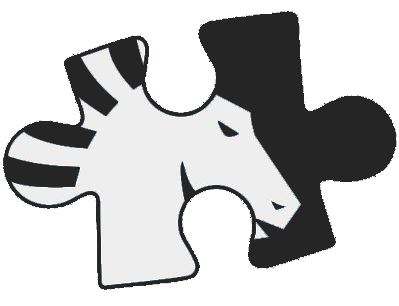
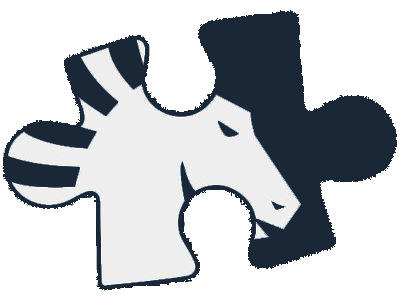
changed entire theme

diff --git a/src/sass/layout/_cardlist.scss b/src/sass/layout/_cardlist.scss
@@ -25,21 +25,21 @@
 
   //HEADING SPAN CHANGE ON CARD HOVER
   &:hover &__heading-span {
-    background-image: linear-gradient(to right, #CB52FF, #7700B8);
+    background-image: linear-gradient(to right, var(--color-brown-light), var(--color-brown-dark));
     //background-image: linear-gradient(to right, var(--color-orange-light), var(--color-orange-dark)); // #7700B8 #CB52FF
     padding-right: 6rem;
     font-weight: 900;
-    color: var(--color-gray-light-2);
+    color: black;
   }
 
   &:hover &__hitbox-img {
-    color : #CB52FF; //var(--color-orange-light);
+    color : var(--color-brown-dark); //var(--color-orange-light);
   }
   &:hover &__released-img {
-    color : #CB52FF; //var(--color-orange-light);
+    color : var(--color-brown-dark); //var(--color-orange-light);
   }
   &:hover &__attributes-img {
-    color : #CB52FF; //var(--color-orange-light);
+    color : var(--color-brown-dark); //var(--color-orange-light);
   }
 
   &__img-container {
@@ -80,7 +80,7 @@
       height: 2rem;
       width: 2rem;
       margin-right: 1rem;
-      color : greenyellow;
+      color : var(--color-primary-light);
     }
   }
 
@@ -93,11 +93,11 @@
     align-self: end;
     z-index: 0;
 
-    font-size: 2.1rem;
+    font-size: 2rem;
     font-weight: 700;
     text-transform: uppercase;
     text-align: right;
-    color: black;
+    color: var(--color-gray-light-2);
     position: absolute;
     //top: 12rem;
     right: .1rem;
@@ -105,8 +105,7 @@
     //outline: none;
 
     &-span {
-      //background-image: linear-gradient(to right, var(--color-blue-light), var(--color-blue-dark));
-      background-image: linear-gradient(to right, var(--color-green-light), greenyellow);
+      background-image: linear-gradient(to right, var(--color-primary-light), var(--color-primary));
       -webkit-box-decoration-break: clone;
       box-decoration-break: clone;
 

diff --git a/src/sass/layout/_header.scss b/src/sass/layout/_header.scss
@@ -11,7 +11,7 @@
 .header__navbar {
   display: grid;
 
-  background-color: #101d2c; // var(--color-theme-dark);
+  background-color: var(--color-primary); // var(--color-theme-dark);
   height: 45px;
   cursor: pointer;
   overflow: hidden;//+
@@ -105,6 +105,9 @@
 }
 
 
+
+/* items effect */
+
 .link::before {
   content: "";
   position: absolute;
@@ -112,7 +115,7 @@
   left: 0;
   height: 3px;
   width: 100%;
-  background-color: rgba(120, 181, 196, 0.2);
+  background-color: rgba(255, 207, 84, 0.2);
   transform: scaleY(1) scaleX(0);
   transition: transform .2s,
               width .4s cubic-bezier(1, 0, 0, 1) .1s,
@@ -133,7 +136,7 @@
 }
 
 
-/* effect */
+/* navbar effect */
 
 .header__navbar::after {
   content: "";
@@ -142,7 +145,7 @@
   right: 0;
   height: 3px;
   width: 100%;
-  background-color: rgba(196, 162, 120, .3);
+  background-color: rgba(255, 207, 84, 0.2);
   transform: scaleX(1);
   transition: transform .2s,
               width .4s cubic-bezier(1, 0, 0, 1) .1s,

diff --git a/src/components/livestreams/FilterTeam.js b/src/components/livestreams/FilterTeam.js
@@ -267,7 +267,7 @@ function FilterTeam ({ channels, selectedTeam, onSelectedTeamChange }) {
     /**** start Menu ****/
     function Menu(props) {
         return (
-            <Paper square className={props.selectProps.classes.paper} {...props.innerProps} Style='background-color: #252525'>
+            <Paper square className={props.selectProps.classes.paper} {...props.innerProps} Style='background-color: var(--color-primary)'>
                 {props.children}
             </Paper>
         );
@@ -314,7 +314,7 @@ function FilterTeam ({ channels, selectedTeam, onSelectedTeamChange }) {
                         InputLabelProps: {
                             htmlFor: 'react-select-multiple',
                             shrink: true,
-                            style: { color: 'greenyellow' },
+                            style: { color: 'var(--color-brown-light)' },
                         },
                     }}
                     placeholder="Select Team(s)"

diff --git a/src/components/livetweets/FilterTeam.js b/src/components/livetweets/FilterTeam.js
@@ -267,7 +267,7 @@ function FilterTeam ({ channels, selectedTeam, onSelectedTeamChange }) {
     /**** start Menu ****/
     function Menu(props) {
         return (
-            <Paper square className={props.selectProps.classes.paper} {...props.innerProps} Style='background-color: #252525'>
+            <Paper square className={props.selectProps.classes.paper} {...props.innerProps} Style='background-color: var(--color-primary)'>
                 {props.children}
             </Paper>
         );
@@ -314,7 +314,7 @@ function FilterTeam ({ channels, selectedTeam, onSelectedTeamChange }) {
                         InputLabelProps: {
                             htmlFor: 'react-select-multiple',
                             shrink: true,
-                            style: { color: 'greenyellow' },
+                            style: { color: 'var(--color-brown-light)' },
                         },
                     }}
                     placeholder="Select Team(s)"

diff --git a/src/components/FilterHitbox.js b/src/components/FilterHitbox.js
@@ -227,7 +227,7 @@ function FilterHitbox ({ selectedHitbox, onSelectedHitboxChange }) {
     /**** start Menu ****/
     function Menu(props) {
         return (
-            <Paper square className={props.selectProps.classes.paper} {...props.innerProps} Style='background-color: #252525'>
+            <Paper square className={props.selectProps.classes.paper} {...props.innerProps} Style='background-color: var(--color-primary)'>
                 {props.children}
             </Paper>
         );
@@ -274,7 +274,7 @@ function FilterHitbox ({ selectedHitbox, onSelectedHitboxChange }) {
                         InputLabelProps: {
                             htmlFor: 'react-select-multiple',
                             shrink: true,
-                            style: { color: 'greenyellow' },
+                            style: { color: 'var(--color-brown-light)' },
                         },
                     }}
                     placeholder="Select Hitbox(s)"

diff --git a/src/components/FilterAttribute.js b/src/components/FilterAttribute.js
@@ -221,7 +221,7 @@ function FilterAttribute ({ selectedAttribute, onSelectedAttributeChange }) {
     /**** start Menu ****/
     function Menu(props) {
         return (
-            <Paper square className={props.selectProps.classes.paper} {...props.innerProps} Style='background-color: #252525'>
+            <Paper square className={props.selectProps.classes.paper} {...props.innerProps} Style='background-color: var(--color-primary)'>
                 {props.children}
             </Paper>
         );
@@ -268,7 +268,7 @@ function FilterAttribute ({ selectedAttribute, onSelectedAttributeChange }) {
                     InputLabelProps: {
                         htmlFor: 'react-select-multiple',
                         shrink: true,
-                        style: { color: 'greenyellow' },
+                        style: { color: 'var(--color-brown-light)' },
                     },
                 }}
                 placeholder="Select Attribute(s)"

diff --git a/src/components/livestreams/SearchBox.js b/src/components/livestreams/SearchBox.js
@@ -257,7 +257,7 @@ function SearchBox ({ channels, searchText, onSearchTextChange }) {
     /**** start Menu (dropdown)****/
     function Menu(props) {
         return (
-            <Paper square className={props.selectProps.classes.paper} {...props.innerProps} Style='background-color: #252525'>
+            <Paper square className={props.selectProps.classes.paper} {...props.innerProps} Style='background-color: var(--color-primary)'>
                 {props.children}
             </Paper>
         );
@@ -303,7 +303,7 @@ function SearchBox ({ channels, searchText, onSearchTextChange }) {
                     InputLabelProps: {
                         htmlFor: 'react-select-multiple',
                         shrink: true,
-                        style: { color: 'greenyellow' },
+                        style: { color: 'var(--color-brown-light)' },
                     },
                 }}
                 placeholder="Search for Channel(s)"

diff --git a/src/components/livetweets/SearchBox.js b/src/components/livetweets/SearchBox.js
@@ -257,7 +257,7 @@ function SearchBox ({ channels, searchText, onSearchTextChange }) {
     /**** start Menu (dropdown)****/
     function Menu(props) {
         return (
-            <Paper square className={props.selectProps.classes.paper} {...props.innerProps} Style='background-color: #252525'>
+            <Paper square className={props.selectProps.classes.paper} {...props.innerProps} Style='background-color: var(--color-primary)'>
                 {props.children}
             </Paper>
         );
@@ -303,7 +303,7 @@ function SearchBox ({ channels, searchText, onSearchTextChange }) {
                     InputLabelProps: {
                         htmlFor: 'react-select-multiple',
                         shrink: true,
-                        style: { color: 'greenyellow' },
+                        style: { color: 'var(--color-brown-light)' },
                     },
                 }}
                 placeholder="Search for User(s)"

diff --git a/src/sass/layout/_sidebar.scss b/src/sass/layout/_sidebar.scss
@@ -10,7 +10,7 @@
   //float: right;
   z-index: 5001;
 
-  background-color: #101d2c;
+  background-color: var(--color-primary);
   box-shadow: 0 1rem 1rem rgba(black, 1);
   //width: 20rem;
   height: 100vh;
@@ -75,8 +75,8 @@
   //color: var(--color-brown-light); 
   color: white;
   width: 80%;
-  border-bottom: 1px solid rgba(196, 162, 120, .3);
-  padding-bottom: 4rem;
+  border-bottom: 1px solid rgba(255, 207, 84, 0.2);
+  //padding-bottom: 4rem;
 }
 
 .side--link:focus {
@@ -91,7 +91,7 @@
 
 .side--link:hover {
   color: var(--color-brown-dark); 
-  border-bottom: 2px solid rgba(196, 162, 120, .3);
+  border-bottom: 2px solid rgba(255, 207, 84, 0.2);
   //border-bottom: 2px solid var(--color-brown-dark);
 }
 
@@ -116,7 +116,7 @@
   left: 0;
   height: 100%;
   width: 3px;
-  background-color: rgba(196, 162, 120, .3);
+  background-color: rgba(255, 207, 84, 0.2);
   transform: scaleY(1);
   transition: transform .2s;
   overflow: hidden;

diff --git a/src/components/SearchBox.js b/src/components/SearchBox.js
@@ -243,7 +243,7 @@ function SearchBox ({ cars, searchText, onSearchTextChange }) {
     /**** start Menu (dropdown)****/
     function Menu(props) {
         return (
-            <Paper square className={props.selectProps.classes.paper} {...props.innerProps} Style='background-color: #252525'>
+            <Paper square className={props.selectProps.classes.paper} {...props.innerProps} Style='background-color: var(--color-primary)'>
                 {props.children}
             </Paper>
         );
@@ -289,7 +289,7 @@ function SearchBox ({ cars, searchText, onSearchTextChange }) {
                     InputLabelProps: {
                         htmlFor: 'react-select-multiple',
                         shrink: true,
-                        style: { color: 'greenyellow' },
+                        style: { color: 'var(--color-brown-light)' },
                     },
                 }}
                 placeholder="Search for Car(s)"

diff --git a/src/components/Orderer.js b/src/components/Orderer.js
@@ -222,7 +222,7 @@ function Orderer ({ selectedOrder, onSelectedOrderChange }) {
     /**** start Menu ****/
     function Menu(props) {
         return (
-            <Paper square className={props.selectProps.classes.paper} {...props.innerProps} Style='background-color: #252525'>
+            <Paper square className={props.selectProps.classes.paper} {...props.innerProps} Style='background-color: var(--color-primary)'>
                 {props.children}
             </Paper>
         );
@@ -269,7 +269,7 @@ function Orderer ({ selectedOrder, onSelectedOrderChange }) {
                     InputLabelProps: {
                         htmlFor: 'react-select-multiple',
                         shrink: true,
-                        style: { color: 'greenyellow' },
+                        style: { color: 'var(--color-brown-light)' },
                     },
                 }}
                 placeholder="Select Order"

diff --git a/src/components/Sorter.js b/src/components/Sorter.js
@@ -223,7 +223,7 @@ function Sorter ({ selectedSort, onSelectedSortChange }) {
     /**** start Menu ****/
     function Menu(props) {
         return (
-            <Paper square className={props.selectProps.classes.paper} {...props.innerProps} Style='background-color: #252525'>
+            <Paper square className={props.selectProps.classes.paper} {...props.innerProps} Style='background-color: var(--color-primary)'>
                 {props.children}
             </Paper>
         );
@@ -270,7 +270,7 @@ function Sorter ({ selectedSort, onSelectedSortChange }) {
                     InputLabelProps: {
                         htmlFor: 'react-select-multiple',
                         shrink: true,
-                        style: { color: 'greenyellow' },
+                        style: { color: 'var(--color-brown-light)' },
                     },
                 }}
                 placeholder="Select Sort"
